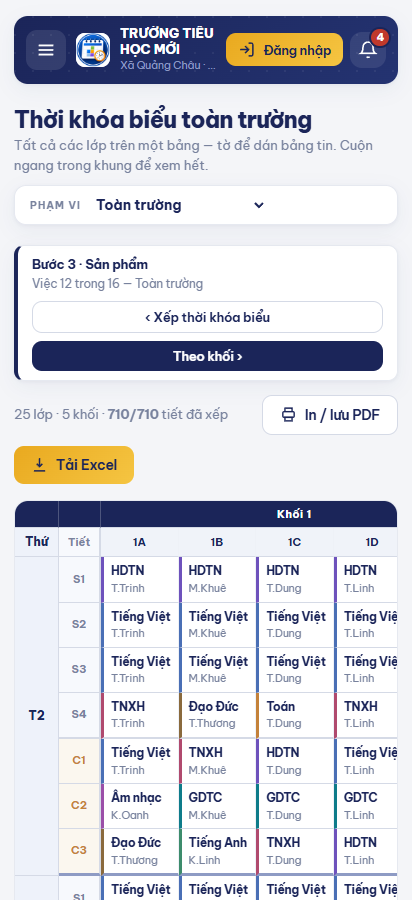
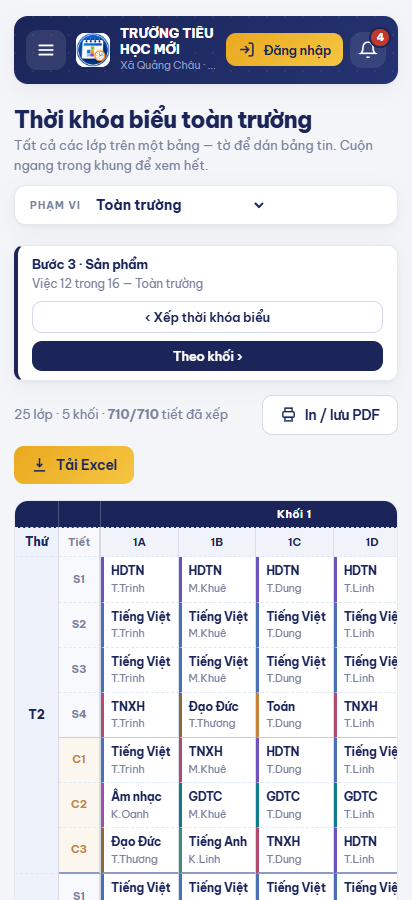
Lưới bày từng điểm trường; kẻ dọc liền, kẻ ngang nét đứt xanh nhạt
1. TỪNG ĐIỂM TRƯỜNG. Ba điểm gộp một bảng là 60 cột — chủ dự án nhận xét
   "quá dày và rối", và đúng: người phụ trách một điểm chỉ quan tâm điểm
   của mình. Nay lopChoLuoi() lọc theo S.dtLuoi, daiDiemLuoi() dựng dải
   nút chuyển kèm số lớp mỗi nơi (chỉ hiện khi có nhiều hơn một điểm).
   Bảng điều hành và màn Toàn trường đều dùng.
   Bản gộp cả trường vẫn nguyên nhưng chỉ ở đường Xuất và in — nơi nó
   đúng vai: tờ A3 dán bảng tin. Có phép thử canh việc này.

2. ĐƯỜNG KẺ theo mẫu chủ dự án gửi: dọc nét liền tách lớp, ngang nét đứt
   xanh rất nhạt và mảnh hơn. Thứ tự đậm nhạt có chủ ý — nhầm cột là đọc
   nhầm cả lớp, còn nhầm dòng thì đã có cột Tiết dính bên trái đỡ. Hết
   buổi và hết ngày mới kẻ liền, đậm dần.

Kiểm chứng: npm test 233/233, npm run soi 143/143 (+2), chụp lại ảnh.

Changed region(s): [[0.1456, 0.8089, 0.9612, 1.0], [0.1748, 0.84, 0.2039, 0.9022], [0.0874, 0.7778, 0.1165, 0.8089]]

diff --git a/src/index.html b/src/index.html
@@ -456,9 +456,11 @@ tr.tat-d{opacity:.5}tr.tat-d span{text-decoration:line-through}
 /* ---------- Lưới toàn trường: cuộn ngang trong khung, thân trang không cuộn ---------- */
 .tt-boc{overflow:auto;max-height:74vh;border:1px solid var(--ke);border-radius:var(--r);background:var(--the)}
 table.tt{border-collapse:separate;border-spacing:0;font-size:11.5px;width:max-content;min-width:100%}
-/* Kẻ DỌC mảnh, kẻ NGANG rõ — mắt đọc bảng này theo hàng (một tiết, xem
-   các lớp học gì), nên hàng phải tách bạch còn cột chỉ cần gợi ý. */
-table.tt th,table.tt td{border-right:1px solid #EEF1F7;border-bottom:1px solid var(--ke-2);padding:5px 7px;
+/* Kẻ DỌC tách lớp — nét liền, đủ rõ để mắt biết đây là cột khác.
+   Kẻ NGANG chỉ dẫn dòng — xanh rất nhạt, NÉT ĐỨT, mảnh hơn kẻ dọc.
+   Thứ tự đậm nhạt là có chủ ý: ranh giới giữa hai LỚP quan trọng hơn ranh
+   giới giữa hai TIẾT, vì nhầm cột là đọc nhầm cả lớp. */
+table.tt th,table.tt td{border-right:1px solid #D6DEEC;border-bottom:1px dashed #DDE9F6;padding:5px 7px;
   white-space:nowrap;background:var(--the)}
 /* Hai cột trái dính: Thứ (gộp ô cả ngày) rồi tới Tiết */
 table.tt .c-thu2{position:sticky;left:0;z-index:2;width:44px;min-width:44px;
@@ -475,9 +477,10 @@ table.tt td.goc,table.tt th.canh{position:sticky;left:0;z-index:2;background:#F7
   font-size:11px;text-align:center;color:var(--chu-mo)}
 table.tt td b{display:block;font-weight:700;font-size:11.5px}
 table.tt td span{display:block;font-size:10.5px;color:var(--chu-mo)}
-table.tt tr.het td{border-bottom:2px solid var(--ke-2)}
-/* Vạch đậm giữa hai NGÀY — mốc lớn nhất khi mắt quét dọc bảng 30 dòng */
-table.tt tr.het-ngay td{border-bottom:3px solid var(--nav-mo)}
+/* Hết một buổi và hết một ngày thì kẻ LIỀN, đậm dần — đây là hai mốc thật
+   sự cần thấy, khác hẳn nét đứt mờ giữa các tiết trong cùng buổi. */
+table.tt tr.het td{border-bottom:1.5px solid #C3CEE2}
+table.tt tr.het-ngay td{border-bottom:2.5px solid var(--nav-mo)}
 /* Dải khối gộp ô trên tên lớp. Hai hàng tiêu đề cùng dính, nên hàng dưới
    phải lùi xuống đúng chiều cao hàng trên — chốt cứng 26px cho khớp. */
 table.tt.co-khoi thead tr.dai-khoi th{top:0;height:26px;z-index:5;
@@ -489,6 +492,18 @@ table.tt.co-khoi thead tr:nth-child(2) th{top:26px}
    Vẫn giữ chữ — bỏ trống thì lẫn với tiết chưa xếp. */
 table.tt td.o-nghi-t{text-align:center;font-size:9.5px;color:#C2C9D8;letter-spacing:.04em;
   background:repeating-linear-gradient(135deg,#F7F9FD,#F7F9FD 5px,#EFF3FA 5px,#EFF3FA 10px)}
+
+/* Dải nút chuyển điểm trường trên các màn hình lưới rộng */
+.dai-dt{display:flex;gap:8px;flex-wrap:wrap;margin-bottom:13px}
+.dt-nut{display:flex;align-items:center;gap:8px;padding:9px 15px;border-radius:11px;cursor:pointer;
+  border:1.5px solid var(--ke-2);background:var(--the);color:var(--chu);font-size:13.5px;font-weight:600;
+  font-family:inherit;transition:background .16s,border-color .16s}
+.dt-nut:hover{border-color:var(--lam)}
+.dt-nut:active{transform:translateY(-2px)}
+.dt-nut span{font-size:11.5px;font-weight:700;background:#EEF2FA;color:var(--chu-mo);
+  padding:2px 8px;border-radius:20px}
+.dt-nut.on{background:var(--nav);border-color:var(--nav);color:#fff}
+.dt-nut.on span{background:rgba(255,255,255,.2);color:#fff}
 
 /* đèn báo tình trạng máy chủ + khối mã trong hộp thoại */
 .cham-mc{width:9px;height:9px;flex:0 0 9px;border-radius:50%;background:#8E9BC4;box-shadow:0 0 0 3px rgba(255,255,255,.09)}
@@ -719,6 +734,7 @@ let S = {
   dayThay:[],           /* phân công dạy thay theo ngày — bảng day_thay trên máy chủ */
   nguoiDung:{vaiTro:'qt', gvId:null, diemTruongId:null},
   phamVi:'', trangHienTai:'dieuhanh', lopXem:null, gvXem:null, khoiXem:null,
+  dtLuoi:'',            /* điểm trường đang xem trên lưới rộng — xem lopChoLuoi() */
   oChon:null            /* ô đang chọn trong lưới lớp — lối chỉnh tay trên điện thoại */
 };
 /* Lưới thật của Trường TH Diễn Liên, đối chiếu từ bản kết xuất SmartScheduler
@@ -3778,7 +3794,8 @@ function mDieuHanh(){
         <button class="b b-vien" data-di="tkbkhoi">Theo khối</button>
         <button class="b b-vang" data-di="xuatin">Xuất và in</button>
       </div>
-      ${luoiRongHTML(xepTheoKhoi(ds),true,'46vh')}
+      ${daiDiemLuoi()}
+      ${luoiRongHTML(xepTheoKhoi(lopChoLuoi()),true,'46vh')}
       <div class="gy" style="margin-top:10px">Cuộn trong khung để xem hết.
         ${KHO.banCongBo===KHO.version&&KHO.version?'Giáo viên đang xem đúng bản này.'
           :coMayChu()&&KHO.version?'<b>Chưa công bố</b> — thầy cô chưa xem được bản này.':''}</div>
@@ -4292,6 +4309,33 @@ function hopTimDayThay(){
    giờ cuộn ngang, đúng nguyên tắc mobile-first.
    ================================================================== */
 
+/* ---------- Lưới rộng xem TỪNG ĐIỂM TRƯỜNG ----------
+   Ba điểm trường gộp một bảng là 60 cột: quá dày, đọc không nổi, và thực tế
+   cũng không ai cần — người phụ trách một điểm trường chỉ quan tâm điểm của
+   mình. Nên MÀN HÌNH mặc định bày một điểm trường, có dải nút chuyển qua
+   lại. Bản gộp cả trường vẫn còn nguyên, nhưng chỉ ở đường XUẤT VÀ IN —
+   nơi nó đúng vai: tờ A3 dán bảng tin. */
+function dsDiemChoLuoi(){
+  const ds=dtTrongPV();
+  if(!S.dtLuoi || !ds.some(d=>d.id===S.dtLuoi)) S.dtLuoi = ds.length>1 ? ds[0].id : '';
+  return ds;
+}
+const lopChoLuoi = () => {
+  const ds=lopTrongPV();
+  dsDiemChoLuoi();
+  return S.dtLuoi ? ds.filter(l=>S.lopDT[l.id]===S.dtLuoi) : ds;
+};
+/* Dải nút chuyển điểm trường — chỉ hiện khi trường có nhiều hơn một điểm */
+function daiDiemLuoi(){
+  const ds=dsDiemChoLuoi();
+  if(ds.length<2) return '';
+  return `<div class="dai-dt">${ds.map(d=>{
+    const n=lopTrongPV().filter(l=>S.lopDT[l.id]===d.id).length;
+    return `<button class="dt-nut${d.id===S.dtLuoi?' on':''}" data-dtluoi="${d.id}">
+      ${esc(d.ten.replace(/^Điểm trường\s*/i,''))}<span>${n}</span></button>`;
+  }).join('')}</div>`;
+}
+
 /* Bảng dùng chung cho cả hai màn hình. `ds` đã sắp sẵn thứ tự cột. */
 /* Lưới rộng — GƯƠNG MẶT của sản phẩm. Bốn thứ làm nó đọc được ở quy mô
    25–60 cột × 30 dòng, và cả ba đều là chuyện đọc chứ không phải trang trí:
@@ -4354,12 +4398,15 @@ function luoiRongHTML(ds, ghiKhoi, cao){
 }
 
 function mToanTruong(){
-  const ds=xepTheoKhoi(lopTrongPV());
+  const ds=xepTheoKhoi(lopChoLuoi());
+  const nhieuDiem=dsDiemChoLuoi().length>1;
   const can=S.phanCong.filter(p=>ds.some(l=>l.id===p.lopId)).reduce((s,p)=>s+p.soTiet,0);
   const xep=ds.reduce((s,l)=>s+Object.keys(S.tkb[l.id]||{}).length,0);
   return dauTrang('Thời khóa biểu toàn trường',
-    'Tất cả các lớp trên một bảng — tờ để dán bảng tin. Cuộn ngang trong khung để xem hết.',true)+
-  dieuHuongBuoc('toantruong')+`
+    nhieuDiem?'Xem theo từng điểm trường cho dễ đọc. Bản gộp cả trường nằm ở mục Xuất và in.'
+             :'Tất cả các lớp trên một bảng — tờ để dán bảng tin. Cuộn ngang trong khung để xem hết.',true)+
+  dieuHuongBuoc('toantruong')+
+  daiDiemLuoi()+`
   <div class="tkb-thanh">
     <span style="font-size:12.5px;color:var(--chu-mo)">${ds.length} lớp ·
       ${khoiDangCo(ds).length} khối · <b class="${xep<can?'':''}">${xep}/${can}</b> tiết đã xếp</span>
@@ -5761,6 +5808,7 @@ function noiSuKien(){
   $('#selGV')&&($('#selGV').onchange=e=>{S.gvXem=e.target.value;ve();});
   $('#selToi')&&($('#selToi').onchange=e=>{S.nguoiDung.gvId=e.target.value;ve();});
   $$('[data-di]').forEach(b=>b.onclick=()=>chuyen(b.dataset.di));
+  $$('[data-dtluoi]').forEach(b=>b.onclick=()=>{ S.dtLuoi=b.dataset.dtluoi; ve(); });
 
   /* màn hình chào */
   $('#btChaoTruongMoi')&&($('#btChaoTruongMoi').onclick=e=>{e.preventDefault();hopDangKyTruong();});

diff --git a/CLAUDE.md b/CLAUDE.md
@@ -308,8 +308,23 @@ cả ngày** (`rowspan`) rồi tới **cột Tiết** (`S1…S4`, `C1…C3`, ô 
 nhạt). Hai cột đều dính trái — cột thứ hai phải khai `left:44px` khớp đúng bề
 ngang cột thứ nhất, lệch một pixel là chồng lên nhau.
 
-Kẻ **dọc mảnh, ngang rõ**: mắt đọc bảng này theo HÀNG (một tiết, xem các lớp
-học gì), nên hàng phải tách bạch còn cột chỉ cần gợi ý.
+**Kẻ dọc liền, kẻ ngang nét đứt xanh nhạt** *(chốt 2/8/2026 theo mẫu chủ dự
+án gửi)*. Thứ tự đậm nhạt là có chủ ý: ranh giới giữa hai **LỚP** quan trọng
+hơn ranh giới giữa hai **TIẾT** — nhầm cột là đọc nhầm cả lớp, còn nhầm dòng
+thì đã có cột Tiết dính bên trái đỡ. Hết buổi và hết ngày mới kẻ liền đậm dần
+(1.5px → 2.5px), đó là hai mốc thật sự cần thấy.
+
+#### Lưới trên MÀN HÌNH bày từng điểm trường, bản gộp để IN *(2/8/2026)*
+
+Ba điểm trường gộp một bảng là **60 cột** — chủ dự án nhận xét *"quá dày và
+rối"*, và đúng: người phụ trách một điểm trường chỉ quan tâm điểm của mình.
+Nay `lopChoLuoi()` lọc theo `S.dtLuoi`, `daiDiemLuoi()` dựng dải nút chuyển
+(chỉ hiện khi có nhiều hơn một điểm trường, kèm số lớp mỗi nơi). Bảng điều
+hành và màn *Toàn trường* đều dùng nó.
+
+Bản **gộp cả trường vẫn còn nguyên** nhưng chỉ ở đường **Xuất và in** — nơi
+nó đúng vai: tờ A3 dán bảng tin. Có phép thử canh việc này (`luoiToanTruong`
+phải luôn đủ cột cho mọi lớp, không bị dải nút cắt bớt).
 
 #### Không bao giờ để mất việc chưa lưu *(2/8/2026)*
 
